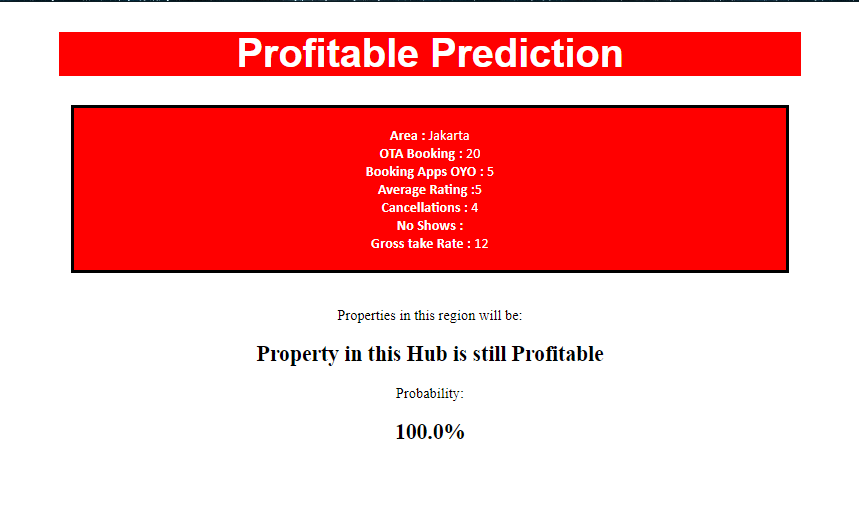
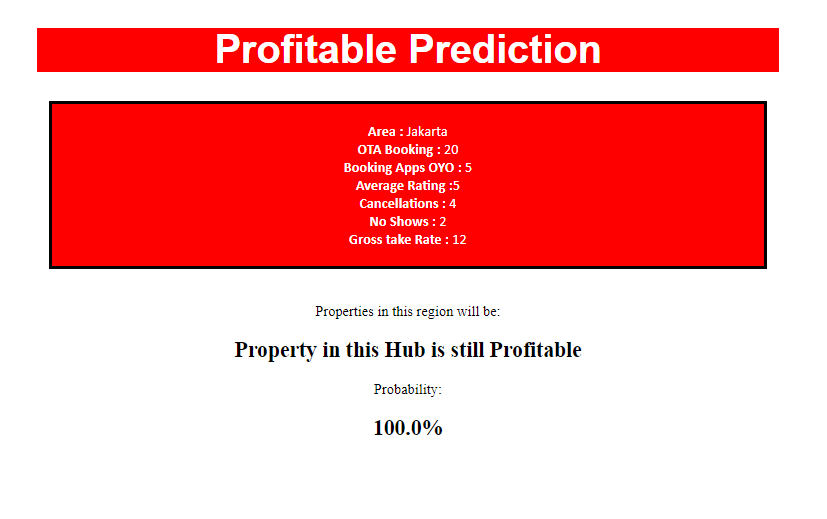
final project

diff --git a/templates/prediction.html b/templates/prediction.html
@@ -64,7 +64,7 @@
             <!-- <br> -->
             <b>Cancellations : </b>{{cancellations}}
             <br>
-            <b>No Shows : </b>{{no_shows}}
+            <b>No Shows : </b>{{No_Shows}}
             <br>
             <b>Gross take Rate : </b>{{Gross_Rate}}
             <!-- <br> -->

diff --git a/app.py b/app.py
@@ -44,18 +44,12 @@ def predict():
         # NTR = input['NTR']
         # MGL = input['MGL']
 
-        # hubList = ['hub_0', 'hub_BC', 'hub_Bali Nusra', 'hub_Bogor', 'hub_Central Java',
-        # 'hub_Central Sumatra', 'hub_East Java 1', 'hub_East Java 2',
-        # 'hub_East Java 3', 'hub_Jakarta', 'hub_Kalimantan',
-        # 'hub_North Sulawesi', 'hub_North Sumatra', 'hub_South Sulawesi',
-        # 'hub_South Sumatra', 'hub_West Java 1', 'hub_West Java 2',
-        # 'hub_Yogyakarta']
+     
 
-        # prediksi = [[SellableRoom, Gross_Value, Occ, OTA, App, MM, Walk_In, Web, Direct, Others, Arr, Revpar, Cancellations, No_Shows,GTR,NTR, MGL, area ]]
 
         prediksi = [[GTR,OTA,Cancellations,MM,No_Shows,App ]]
         results = model.predict(prediksi)[0]
-        # resultProba = 
+        
 
         if results == 1:
             strResult = 'There are Property in this Hub might be not profitable'
